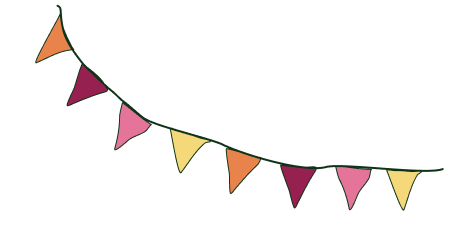
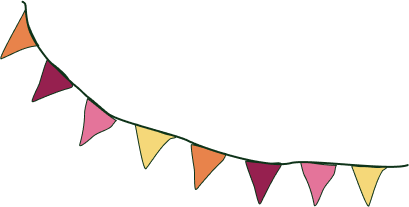
Symmetric deeper garlands, new fonts, section tweaks on phones
- Garland images cropped to their drawings and placed as mirrors on the
  home screen, stretched to dip deeper; the phone compact bar keeps its
  original garlands
- Fonts switched to Bangers and Bubbler One
- Section block icons sit above their titles; bigger gap between blocks
  on phones; Discours content sits a bit higher on phones
- Inscriptions discours button smaller, with the framboise letter outline

Changed region(s): [[0.0, 0.0, 1.0, 1.0]]

diff --git a/styles.css b/styles.css
@@ -9,8 +9,8 @@
   --jaune: #f5d879;
   --bleu: #aedcea;
 
-  --font-titre: "Anton", "Impact", sans-serif;
-  --font-texte: "Quicksand", system-ui, sans-serif;
+  --font-titre: "Bangers", "Impact", sans-serif;
+  --font-texte: "Bubbler One", system-ui, sans-serif;
 
   --stripe: 50px;
   --menu-h: 38px;
@@ -42,7 +42,7 @@ body {
   background: var(--creme);
   color: var(--vert);
   font-family: var(--font-texte);
-  font-size: 18px;
+  font-size: 21px;
   line-height: 1.5;
   -webkit-font-smoothing: antialiased;
   overflow-x: hidden;
@@ -128,7 +128,7 @@ a { color: inherit; }
   top: 0;
   left: 0;
   color: var(--vert);
-  font-size: 18px;
+  font-size: 21px;
   line-height: 1.25;
   text-align: center;
   white-space: nowrap;
@@ -156,7 +156,7 @@ a { color: inherit; }
   position: absolute;
   z-index: 0;
   top: 0;
-  width: min(32vw, 458px);
+  width: min(32vw, 440px);
   pointer-events: none;
   will-change: transform;
 }
@@ -168,11 +168,16 @@ a { color: inherit; }
 .guirlande {
   position: relative;
   width: 100%;
+  /* Stretched taller than the drawings (≈2:1) so the garlands dip deeper */
+  height: auto;
+  aspect-ratio: 1.6;
   animation: guirlande-entree 1.2s var(--ease) both,
              guirlande-balance 6s ease-in-out 1.2s infinite alternate;
 }
-.guirlande--gauche { top: -20px; transform-origin: 100% 0; }
-.guirlande--droite { left: 20px; transform-origin: 0 0; animation-delay: 0.15s, 1.35s; }
+/* The two images are cropped to their drawings, so mirrored offsets give
+   mirrored garlands. */
+.guirlande--gauche { transform-origin: 100% 0; }
+.guirlande--droite { transform-origin: 0 0; animation-delay: 0.15s, 1.35s; }
 
 @keyframes guirlande-entree {
   from { transform: translateY(-110%) rotate(-4deg); }
@@ -215,7 +220,7 @@ a { color: inherit; }
 }
 .region {
   color: var(--rose);
-  font-size: clamp(15px, min(1.8vw, 2.6vh), 24px);
+  font-size: clamp(18px, min(2.1vw, 3.1vh), 28px);
   margin: 4px 0 0;
 }
 
@@ -252,7 +257,7 @@ a { color: inherit; }
   border: 1.5px solid var(--bleu);
   border-radius: 999px;
   padding: 2px 18px;
-  font-size: 17px;
+  font-size: 20px;
   font-weight: 500;
   text-decoration: none;
   color: var(--vert);
@@ -285,9 +290,13 @@ a { color: inherit; }
 .rsvp {
   display: inline-block;
   font-family: var(--font-titre);
+  font-weight: 400;
   text-transform: uppercase;
   text-decoration: none;
+  letter-spacing: 0.02em;
   color: var(--rose);
+  -webkit-text-stroke: 0.04em var(--framboise);
+  paint-order: stroke fill;
   background: var(--creme);
   border: 2px solid var(--bleu);
   border-radius: 6px;
@@ -397,10 +406,12 @@ a { color: inherit; }
 .bloc { text-align: center; }
 
 .bloc h3 {
+  /* Icon above the title */
   display: flex;
+  flex-direction: column;
   align-items: center;
   justify-content: center;
-  gap: 14px;
+  gap: 8px;
   font-family: var(--font-titre);
   font-weight: 400;
   text-transform: uppercase;
@@ -414,7 +425,7 @@ a { color: inherit; }
 
 .bloc p {
   color: var(--orange);
-  font-size: clamp(15px, 2.4vh, 20px);
+  font-size: clamp(18px, 2.9vh, 24px);
   max-width: 34em;
   margin: 0 auto 0.8em;
 }
@@ -431,18 +442,22 @@ a { color: inherit; }
   font-family: var(--font-titre);
   text-transform: uppercase;
   text-decoration: none;
-  font-size: 24px;
+  font-size: 20px;
+  letter-spacing: 0.02em;
   color: var(--rose);
+  /* Framboise outline on the letters, like the RSVP buttons */
+  -webkit-text-stroke: 0.04em var(--framboise);
+  paint-order: stroke fill;
   border: 2px solid var(--rose);
   border-radius: 4px;
-  padding: 4px 18px;
+  padding: 3px 14px;
   background: #fff;
   transition: background 0.2s, color 0.2s, transform 0.3s var(--ease);
 }
 .bouton:hover { background: var(--rose); color: #fff; transform: translateY(-2px); }
 
 .a-venir {
-  font-family: "Bangers", var(--font-titre);
+  font-family: var(--font-titre);
   font-weight: 400;
   text-transform: uppercase;
   letter-spacing: 0.03em;
@@ -507,8 +522,9 @@ a { color: inherit; }
 .ligne {
   display: inline-block;
   overflow: hidden;
-  padding: 0.1em 0;
-  margin: -0.1em 0;
+  /* Room on the sides too: Bangers leans, so the last letter sticks out right */
+  padding: 0.1em 0.15em;
+  margin: -0.1em -0.15em;
 }
 .ligne > span { display: inline-block; }
 .js .reveal .ligne > span {
@@ -586,7 +602,7 @@ a { color: inherit; }
   padding: 40px 24px 0;
   overflow: hidden;
 }
-.barre .rsvp { align-self: center; margin-bottom: 16px; font-size: 30px; }
+.barre .rsvp { align-self: center; margin-bottom: 16px; font-size: 30px; border-color: var(--framboise); }
 
 .pied { padding-top: 56px; }
 .pied__centre { align-self: center; text-align: center; padding-bottom: 24px; }
@@ -692,7 +708,7 @@ a { color: inherit; }
 
 @media (max-width: 720px) {
   :root { --menu-h: 30px; --entete-h: 124px; --bande-h: min(150px, 20vh); --photos-h: min(230px, 21vh); }
-  body { font-size: 16px; }
+  body { font-size: 19px; }
 
   .entete { padding: 24px 16px calc(var(--menu-h) + 20px); }
   /* The full header is a copy that scrolls away with the page; the real one
@@ -715,13 +731,19 @@ a { color: inherit; }
   .morph--nav { bottom: 10px; padding: 0 12px; justify-content: flex-start; }
   .emplacement--titre { left: calc(50% - 70px); top: 14px; width: 140px; }
   .guirlande-cadre { width: 52vw; }
-  .guirlande--gauche { top: -10px; left: -16px; }
-  .guirlande--droite { left: 16px; top: -10px; }
+  .guirlande--gauche { left: -12px; }
+  .guirlande--droite { left: 12px; }
+  /* The compact bar keeps its original garlands: the cropped images are
+     padded back out to the original drawings' frames (432×256 and 458×247)
+     and placed as before. */
+  .entete:not(.entete--defile) .guirlande { aspect-ratio: auto; top: -10px; }
+  .entete:not(.entete--defile) .guirlande--gauche { left: -16px; padding: 6.71% 2.31% 5.79% 0.46%; }
+  .entete:not(.entete--defile) .guirlande--droite { left: 16px; padding: 0.87% 3.06% 7.86% 7.64%; }
   .morph--logo { width: 55px; }
   .morph--titre { width: 82%; margin-top: 12px; }
 
   .nav__rail { gap: 6px; }
-  .nav a { font-size: 13px; padding: 2px 10px; }
+  .nav a { font-size: 15px; padding: 2px 10px; }
 
   /* One couple, with the RSVP button above it */
   .bande { flex-direction: column; align-items: center; justify-content: flex-end; gap: 8px; padding-top: 12px; }
@@ -731,9 +753,13 @@ a { color: inherit; }
   .couple { width: 186px; }
 
   .section { padding: 20px 16px; }
-  .section__corps { gap: min(40px, 3vh); }
-  .bloc h3 { font-size: min(30px, 4.4vh); margin-bottom: min(16px, 1.6vh); }
-  .bloc p { font-size: clamp(13px, 2.2vh, 16px); margin-bottom: 0.5em; }
+  /* Discours is shorter than the screen: sit it a bit above the middle */
+  #discours .section { padding-bottom: calc(20px + 12vh); }
+  /* Clear gap between the two blocks of a section */
+  .section__corps { gap: min(64px, 7vh); }
+  .bloc h3 { font-size: min(30px, 4.4vh); margin-bottom: min(16px, 1.6vh); gap: 4px; }
+  .bloc h3 img { height: 36px; }
+  .bloc p { font-size: clamp(15px, 2.6vh, 19px); margin-bottom: 0.5em; }
   .deco--disco { width: 80px; right: 12px; }
   .deco--table { width: 110px; left: 10%; }
 

diff --git a/index.html b/index.html
@@ -8,8 +8,8 @@
   <meta name="description" content="Mariage de Lola et Antoine — 12 juin 2027, Ferme des Épis, Ouffières (Calvados)">
   <link rel="preconnect" href="https://fonts.googleapis.com">
   <link rel="preconnect" href="https://fonts.gstatic.com" crossorigin>
-  <link href="https://fonts.googleapis.com/css2?family=Anton&family=Bangers&family=Quicksand:wght@400;500;700&display=swap" rel="stylesheet">
-  <link rel="stylesheet" href="styles.css?v=16">
+  <link href="https://fonts.googleapis.com/css2?family=Bangers&family=Bubbler+One&display=swap" rel="stylesheet">
+  <link rel="stylesheet" href="styles.css?v=23">
   <link rel="icon" href="assets/nuage.png">
   <script>document.documentElement.classList.add("js")</script>
 </head>
@@ -20,8 +20,8 @@
   <!-- One fixed header: full home header at the top, shrinking into the compact
        header (logo left, title centre, date right, menu below) as you scroll. -->
   <header class="entete">
-    <div class="guirlande-cadre guirlande-cadre--gauche"><img class="guirlande guirlande--gauche" src="assets/guirlande-gauche.png" alt=""></div>
-    <div class="guirlande-cadre guirlande-cadre--droite"><img class="guirlande guirlande--droite" src="assets/guirlande-droite.png" alt=""></div>
+    <div class="guirlande-cadre guirlande-cadre--gauche"><img class="guirlande guirlande--gauche" src="assets/guirlande-gauche.png?v=23" alt=""></div>
+    <div class="guirlande-cadre guirlande-cadre--droite"><img class="guirlande guirlande--droite" src="assets/guirlande-droite.png?v=23" alt=""></div>
 
     <div class="morph morph--logo"><img class="nuage intro" style="--i:0" src="assets/nuage.png" alt=""></div>
     <div class="morph morph--titre"><h1 class="titre intro" style="--i:1"><img src="assets/titre.png" alt="Lola et Antoine"></h1></div>
@@ -204,6 +204,6 @@
     <button class="visionneuse__fleche visionneuse__fleche--suiv" type="button" aria-label="Photo suivante">&#8250;</button>
   </dialog>
 
-  <script src="site.js?v=16"></script>
+  <script src="site.js?v=23"></script>
 </body>
 </html>

diff --git a/site.js b/site.js
@@ -170,12 +170,13 @@ const morphs = [
 // In the compact header the logo sits in the dip of the left garland and the
 // date/location sits above the string of the right garland. These spots are
 // worked out from each garland's drawing (fractions of the image).
-const LOGO = { cx: 0.42, cy: 0.4, h: 0.34, largeur: 0.3, ratio: 101 / 62 };
-const DATE = { gauche: 0.44, droite: 1, haut: 0.04, bas: 0.56 };
+const LOGO = { cx: 0.43, cy: 0.36, h: 0.43, largeur: 0.31, ratio: 101 / 62 };
+const DATE = { gauche: 0.44, droite: 1, haut: 0.03, bas: 0.56 };
 // Phones have less room, so the garlands stretch further, the logo takes more
 // of its garland and the date uses more of the space above the string.
 const telephone = matchMedia("(max-width: 720px)");
-const LOGO_TEL = { ...LOGO, h: 0.5, largeur: 0.44 };
+// (Fractions of the padded phone garlands, see styles.css › Mobile.)
+const LOGO_TEL = { cx: 0.42, cy: 0.4, h: 0.5, largeur: 0.44, ratio: LOGO.ratio };
 const DATE_TEL = { gauche: 0.34, droite: 1, haut: 0, bas: 0.52 };
 // Space the date block lands in (set by placerEmplacements), or null when the
 // compact header has no room for it and it fades out instead.
